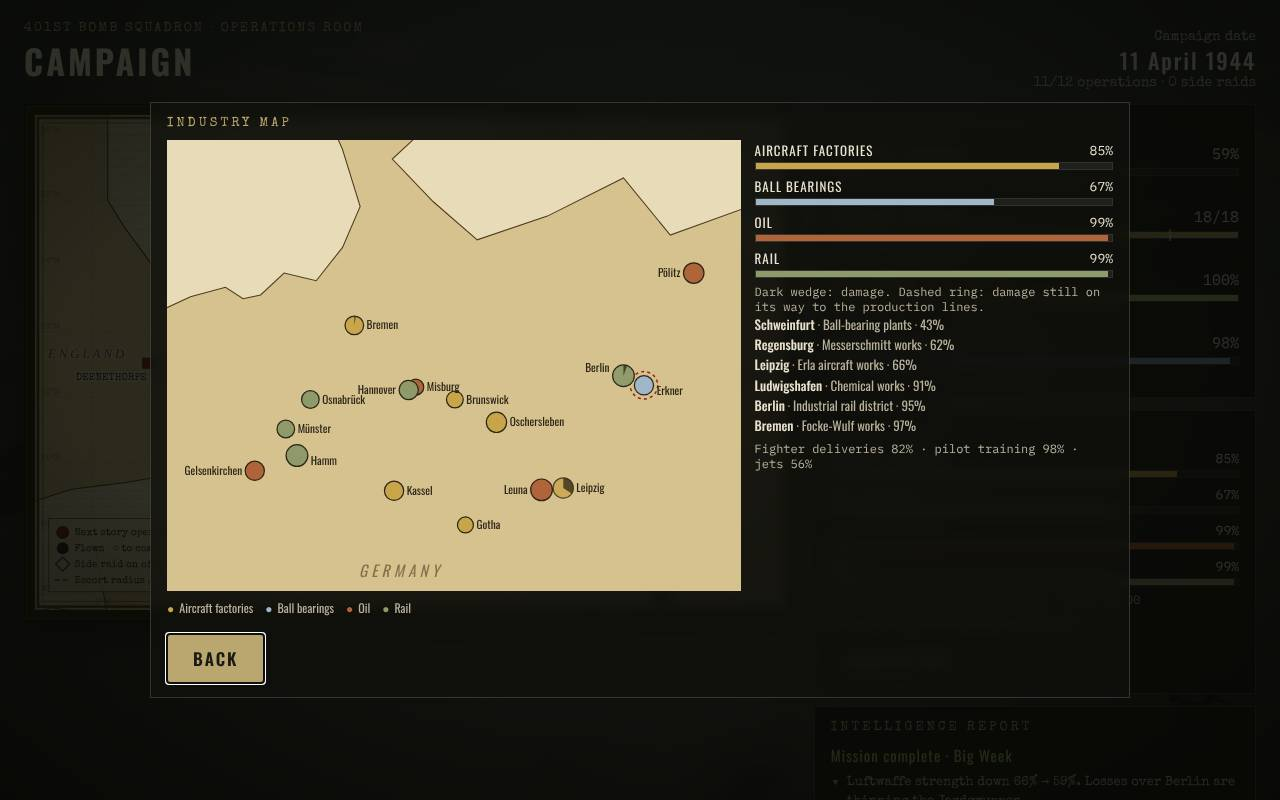
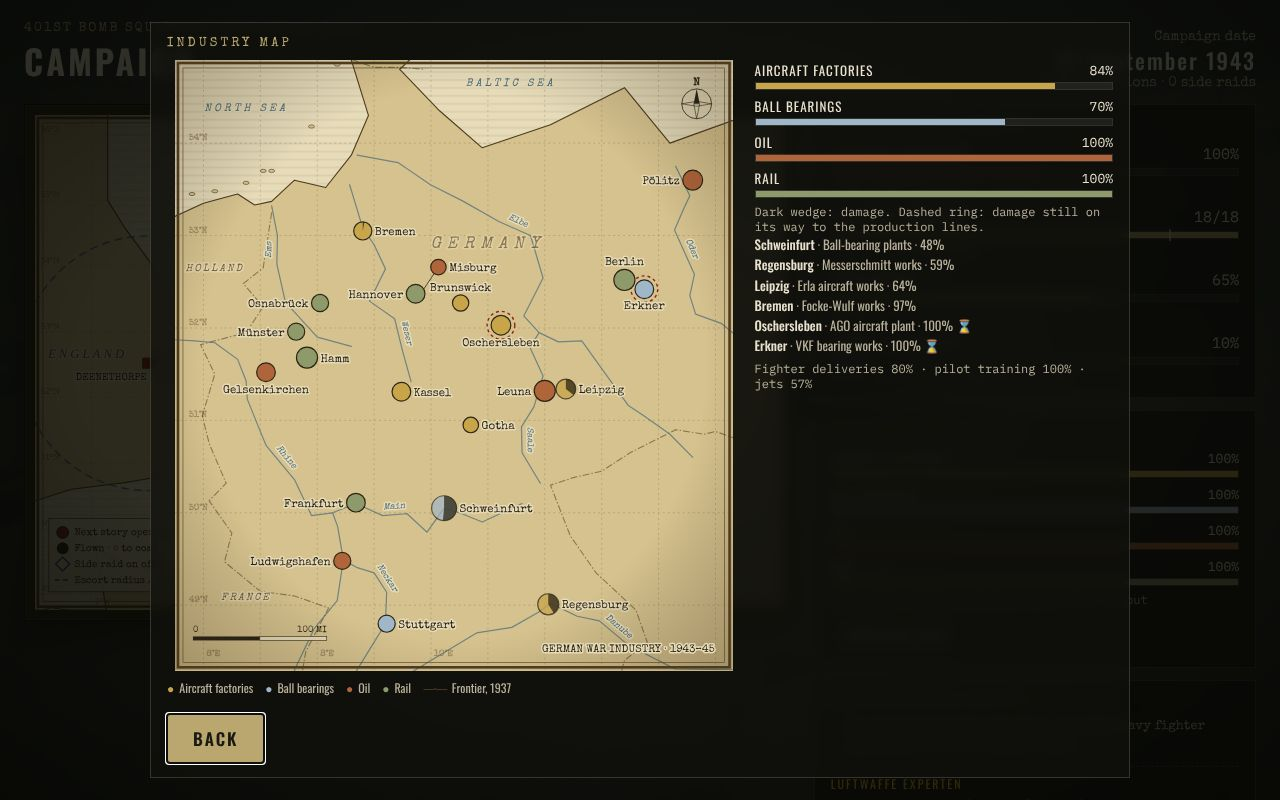
Phase 11 goal 10 review fixes: framed industry chart, label layout, forecast wording
- Industry map now spans 54.9-48.3N / 5.5-15.3E so every site is drawn
  (Schweinfurt, Regensburg, Stuttgart, Ludwigshafen, Frankfurt were cut off)
- Campaign-map chart style: graticule, rivers, 1937 frontier, seas, compass,
  scale bar, vignette and double frame; GERMANY label moved off the edge
- Per-site label sides, Misburg marker pulled clear of Hannover with a leader
- Forecast: one "single-engine deliveries down" line when Fw 190 and Bf 109
  both fall; single-type lines say the other type fills in
- Tests: sites inside the viewBox, markers apart, forecast wording, Arabic
- Re-captured industry-map shots (EN, AR, phone)

Claude-Session: https://claude.ai/code/session_01Q3BeMPozQkeuK1jLPaNDSU

diff --git a/src/ui/StrategicPanel.ts b/src/ui/StrategicPanel.ts
@@ -54,9 +54,10 @@ function ensureStyle() {
 .sw-map { position: fixed; inset: 0; z-index: 30; display: flex; align-items: center; justify-content: center; background: rgba(6,7,4,0.82); padding: 16px; }
 .sw-map .cm-card { width: min(980px, 100%); max-height: 100%; overflow-y: auto; }
 .sw-map .grid { display: grid; grid-template-columns: minmax(0, 1.6fr) minmax(240px, 1fr); gap: 14px; align-items: start; }
-.sw-map svg { display: block; width: 100%; height: auto; background: #e7dbb8; }
+.sw-map svg { display: block; width: min(100%, calc((100vh - 190px) * ${(W / H).toFixed(3)})); min-width: min(100%, 320px); height: auto; margin: 0 auto; background: #e7dbb8; }
 .sw-map .legend { display: flex; flex-wrap: wrap; gap: 6px 12px; font-size: 12px; color: var(--ink-dim); margin-top: 8px; }
 .sw-map .legend span::before { content: '●'; margin-inline-end: 5px; color: var(--c); }
+.sw-map .legend span.fr::before { content: '—·—'; letter-spacing: -1px; color: #4d3b1e; }
 .sw-map .sites { font-size: 13px; line-height: 1.55; color: var(--ink-dim); margin: 0; padding: 0; list-style: none; }
 .sw-map .sites li b { color: var(--ink); font-weight: 500; }
 @media (max-width: 760px) { .sw-map .grid { grid-template-columns: minmax(0, 1fr); } }
@@ -99,34 +100,119 @@ export function wireIndustryCard(root: HTMLElement, c: CampaignData) {
 
 // ---------------- industry map ----------------
 
-const W = 560, H = 440, LON0 = 5.6, LON1 = 15.4, LAT1 = 55.0;
+// The chart frames every site (Gelsenkirchen in the west to Pölitz in the east, the Baltic coast
+// down to Stuttgart and Regensburg) with the campaign map's projection, paper, graticule and frame.
+const LON0 = 5.5, LON1 = 15.3, LAT1 = 54.9, LAT0 = 48.3;
+const W = 560;
 const S = W / ((LON1 - LON0) * CHART.KX);
+const H = Math.round((LAT1 - LAT0) * S);
 const X = (lon: number) => (lon - LON0) * CHART.KX * S;
 const Y = (lat: number) => (LAT1 - lat) * S;
 const f1 = (n: number) => n.toFixed(1);
-// neighbouring sites: these labels go on the other side (or above / below) so none overlap
-const LABEL_LEFT = new Set(['hannover', 'leuna', 'berlin', 'gelsenkirchen', 'politz']);
-const LABEL_DY: Record<string, number> = { berlin: -4, erkner: 9, hamm: 9 };
+const PAPER = '#e7dbb8', LAND = '#d6c28e', COAST = '#4d3b1e', INK = '#2b2518', GRID = '#7a6240', RIVER = '#4f6f7c';
+export const INDUSTRY_CHART = { W, H } as const;
+/** Where a site's marker is drawn on the industry chart (viewBox units). */
+export function industryXY(s: { id: string; lat: number; lon: number }): [number, number] {
+  const o = MARK_SHIFT[s.id];
+  return [X(s.lon) + (o?.[0] ?? 0), Y(s.lat) + (o?.[1] ?? 0)];
+}
+// Misburg lies on Hannover's eastern edge: its marker is pulled clear with a leader line to the true spot.
+const MARK_SHIFT: Record<string, [number, number]> = { misburg: [16, -24] };
+// Label side per site (r = right, l = left, t = above, b = below), checked in EN and AR so none overlap.
+const LABEL_SIDE: Record<string, 'r' | 'l' | 't' | 'b'> = {
+  hannover: 'l', leuna: 'l', berlin: 't', gelsenkirchen: 'b', politz: 'l', munster: 'l', erkner: 'b',
+  frankfurt: 'l', ludwigshafen: 'l', misburg: 'r', oschersleben: 'b', brunswick: 't', osnabruck: 'l',
+};
+
+// Simplified rivers [lon, lat] (the Rhine, Main, Neckar, Danube, Elbe, Saale, Weser, Ems, Oder); each is named along segment `seg`.
+const RIVERS: { name: string; seg: number; pts: [number, number][] }[] = [
+  { name: 'Rhine', seg: 8, pts: [[7.8, 47.6], [7.6, 48.3], [7.95, 48.75], [8.35, 49.05], [8.46, 49.49], [8.36, 49.85], [8.27, 50.0], [7.9, 49.97], [7.6, 50.36], [7.1, 50.73], [6.96, 50.94], [6.77, 51.23], [6.75, 51.43], [6.6, 51.66], [6.2, 51.84], [5.85, 51.86], [5.3, 51.88], [4.5, 51.9]] },
+  { name: 'Main', seg: 5, pts: [[11.6, 50.1], [10.9, 49.9], [10.5, 50.0], [10.23, 50.05], [9.93, 49.79], [9.58, 49.99], [9.15, 49.97], [8.68, 50.1], [8.27, 50.0]] },
+  { name: 'Neckar', seg: 3, pts: [[8.6, 48.2], [9.0, 48.6], [9.2, 48.8], [9.22, 49.14], [9.0, 49.35], [8.69, 49.41], [8.46, 49.49]] },
+  { name: 'Danube', seg: 8, pts: [[8.5, 47.95], [9.2, 48.1], [9.99, 48.4], [10.8, 48.7], [11.42, 48.76], [11.88, 48.92], [12.1, 49.02], [12.57, 48.88], [12.96, 48.83], [13.46, 48.57], [14.29, 48.31], [15.5, 48.3]] },
+  { name: 'Elbe', seg: 10, pts: [[14.6, 50.6], [14.2, 50.85], [13.74, 51.05], [13.47, 51.16], [13.0, 51.56], [12.65, 51.86], [12.24, 51.85], [11.9, 51.95], [11.63, 52.13], [11.97, 52.54], [11.75, 53.0], [11.2, 53.15], [10.57, 53.37], [9.99, 53.55], [9.42, 53.79], [8.7, 53.87]] },
+  { name: 'Saale', seg: 1, pts: [[11.92, 50.32], [11.6, 50.65], [11.59, 50.93], [11.81, 51.15], [11.97, 51.48], [11.74, 51.79], [11.9, 51.95]] },
+  { name: 'Weser', seg: 1, pts: [[9.65, 51.42], [9.5, 51.75], [9.36, 52.1], [8.92, 52.29], [9.2, 52.64], [9.0, 52.9], [8.8, 53.08], [8.57, 53.55]] },
+  { name: 'Ems', seg: 3, pts: [[8.6, 51.8], [8.0, 51.9], [7.44, 52.28], [7.29, 52.69], [7.3, 53.0], [7.2, 53.32]] },
+  { name: 'Oder', seg: 5, pts: [[16.0, 51.3], [15.5, 51.85], [15.1, 52.05], [14.65, 52.15], [14.55, 52.35], [14.63, 52.58], [14.28, 53.06], [14.45, 53.3], [14.55, 53.43], [14.3, 53.75]] },
+];
+// Germany's 1937 frontier where it runs inside the chart: Denmark, Holland, Belgium, France, Bohemia.
+const FRONTIER: [number, number][][] = [
+  [[8.4, 54.95], [9.0, 54.82], [9.45, 54.82], [9.9, 54.8]],
+  [[7.2, 53.25], [7.05, 52.65], [6.7, 52.48], [7.05, 52.23], [6.75, 51.95], [5.95, 51.82], [6.2, 51.5], [5.98, 51.05], [6.1, 50.75], [6.4, 50.32], [6.1, 50.13], [6.5, 49.78], [6.37, 49.47], [7.0, 49.15], [7.6, 49.1], [8.2, 48.97], [7.8, 48.5], [7.55, 47.6]],
+  [[15.6, 50.75], [15.0, 50.88], [14.8, 50.85], [14.3, 50.9], [13.5, 50.65], [13.0, 50.45], [12.5, 50.38], [12.1, 50.3], [12.45, 49.75], [12.9, 49.35], [13.6, 48.95], [13.8, 48.6], [13.4, 48.4], [13.0, 47.5]],
+];
+const SEAS: [string, number, number][] = [['NORTH SEA', 6.75, 54.35], ['BALTIC SEA', 11.4, 54.62]];
+const LANDS: [string, number, number][] = [['GERMANY', 11.0, 52.86], ['FRANCE', 6.75, 49.06], ['HOLLAND', 6.2, 52.62]];
+
+const chartFont = () => `'Special Elite', Georgia, serif${isAr() ? ", 'Noto Naskh Arabic'" : ''}`;
+const halo = `stroke="${PAPER}" stroke-width="3" paint-order="stroke" stroke-linejoin="round"`;
 
 function mapSvg(d: StrategicData): string {
   const ring = (r: readonly (readonly [number, number])[]) => 'M' + r.map(([lon, lat]) => `${f1(X(lon))} ${f1(Y(lat))}`).join('L') + 'Z';
+  const poly = (r: readonly (readonly [number, number])[]) => 'M' + r.map(([lon, lat]) => `${f1(X(lon))} ${f1(Y(lat))}`).join('L');
+  const grid: string[] = [];
+  for (let la = Math.ceil(LAT0); la <= LAT1; la++) grid.push(`<line x1="0" x2="${W}" y1="${f1(Y(la))}" y2="${f1(Y(la))}"/><text data-lbl="grid" x="14" y="${f1(Y(la) - 3)}">${esc(tx('{n}°N', { n: la }))}</text>`);
+  for (let lo = Math.ceil(LON0); lo <= LON1; lo++) grid.push(`<line x1="${f1(X(lo))}" x2="${f1(X(lo))}" y1="0" y2="${H}"/>${lo % 2 || X(lo) > W - 230 ? '' : `<text data-lbl="grid" x="${f1(X(lo) + 3)}" y="${H - 14}">${esc(tx('{n}°E', { n: lo }))}</text>`}`);
+  const rivers = RIVERS.map((r) => `<path d="${poly(r.pts)}"/>`).join('');
+  const riverNames = RIVERS.map((r) => {
+    const [ax, ay] = [X(r.pts[r.seg][0]), Y(r.pts[r.seg][1])], [bx, by] = [X(r.pts[r.seg + 1][0]), Y(r.pts[r.seg + 1][1])];
+    let a = Math.atan2(by - ay, bx - ax);
+    if (a > Math.PI / 2) a -= Math.PI; else if (a <= -Math.PI / 2) a += Math.PI;   // keep the lettering upright
+    const x = (ax + bx) / 2 + Math.sin(a) * 6, y = (ay + by) / 2 - Math.cos(a) * 6;   // just above the stream
+    return `<text data-lbl="river" transform="translate(${f1(x)} ${f1(y)}) rotate(${(a * 180 / Math.PI).toFixed(0)})" text-anchor="middle">${esc(tx(r.name))}</text>`;
+  }).join('');
+  const names = [...SEAS.map(([n, lon, lat]) => `<text data-lbl="sea" x="${f1(X(lon))}" y="${f1(Y(lat))}" text-anchor="middle" font-size="11" fill="${RIVER}" letter-spacing="${isAr() ? 0 : 3}">${esc(tx(n))}</text>`),
+    ...LANDS.map(([n, lon, lat], i) => `<text data-lbl="land" x="${f1(X(lon))}" y="${f1(Y(lat))}" text-anchor="middle" font-size="${i ? 10.5 : 17}" fill="${COAST}" opacity="${i ? 0.7 : 0.55}" letter-spacing="${isAr() ? 0 : i ? 2 : 6}">${esc(tx(n))}</text>`)].join('');
+
   const marks = SITES.map((s) => {
     const st = d.sites[s.id];
     const dmg = st?.dmg ?? 0, pending = (st?.queue.length ?? 0) > 0;
     const r = 4 + Math.sqrt(s.output) * 1.2;
-    const x = X(s.lon), y = Y(s.lat);
+    const [x, y] = industryXY(s);
     const fill = SECTOR_COLOR[s.sector];
-    const left = LABEL_LEFT.has(s.id), dy = LABEL_DY[s.id] ?? 4;
-    return `<g><title>${esc(`${tx(s.name)}, ${tx(s.city)} · ${tx(SECTOR_LABEL[s.sector])} · ${pct(1 - dmg)}`)}</title>
-      <circle cx="${f1(x)}" cy="${f1(y)}" r="${f1(r)}" fill="${fill}" stroke="#2b2518" stroke-width="1.2" opacity="${(1 - dmg * 0.6).toFixed(2)}"/>
-      ${dmg > 0.02 ? `<path d="M${f1(x)} ${f1(y)}L${f1(x)} ${f1(y - r)}A${f1(r)} ${f1(r)} 0 ${dmg > 0.5 ? 1 : 0} 1 ${f1(x + r * Math.sin(dmg * 2 * Math.PI))} ${f1(y - r * Math.cos(dmg * 2 * Math.PI))}Z" fill="#2b2518" opacity="0.75"/>` : ''}
+    const side = LABEL_SIDE[s.id] ?? 'r';
+    const [lx, ly, anchor] = side === 'l' ? [x - r - 3, y + 4, 'end'] : side === 'r' ? [x + r + 3, y + 4, 'start'] : side === 't' ? [x, y - r - 4, 'middle'] : [x, y + r + 11, 'middle'];
+    const leader = MARK_SHIFT[s.id] ? `<line x1="${f1(X(s.lon))}" y1="${f1(Y(s.lat))}" x2="${f1(x)}" y2="${f1(y)}" stroke="${INK}" stroke-width=".8"/><circle cx="${f1(X(s.lon))}" cy="${f1(Y(s.lat))}" r="1.8" fill="${INK}"/>` : '';
+    return `<g data-site="${s.id}"><title>${esc(`${tx(s.name)}, ${tx(s.city)} · ${tx(SECTOR_LABEL[s.sector])} · ${pct(1 - dmg)}`)}</title>${leader}
+      <circle cx="${f1(x)}" cy="${f1(y)}" r="${f1(r)}" fill="${fill}" stroke="${INK}" stroke-width="1.2" opacity="${(1 - dmg * 0.6).toFixed(2)}"/>
+      ${dmg > 0.02 ? `<path d="M${f1(x)} ${f1(y)}L${f1(x)} ${f1(y - r)}A${f1(r)} ${f1(r)} 0 ${dmg > 0.5 ? 1 : 0} 1 ${f1(x + r * Math.sin(dmg * 2 * Math.PI))} ${f1(y - r * Math.cos(dmg * 2 * Math.PI))}Z" fill="${INK}" opacity="0.75"/>` : ''}
       ${pending ? `<circle cx="${f1(x)}" cy="${f1(y)}" r="${f1(r + 4)}" fill="none" stroke="#8e2418" stroke-width="1.4" stroke-dasharray="3 3"/>` : ''}
-      <text x="${f1(left ? x - r - 3 : x + r + 3)}" y="${f1(y + dy)}" text-anchor="${left ? 'end' : 'start'}" font-size="11" fill="#2b2518">${esc(tx(s.city))}</text></g>`;
+      <text x="${f1(lx)}" y="${f1(ly)}" text-anchor="${anchor}" font-size="11.5" fill="${INK}" ${halo}>${esc(tx(s.city))}</text></g>`;
   }).join('');
-  return `<svg viewBox="0 0 ${W} ${H}" style="direction:ltr" role="img" aria-label="${esc(tx('Industry map'))}">
-    <g fill="#d6c28e" stroke="#4d3b1e" stroke-width="1"><path d="${ring(CHART.MAINLAND)}"/></g>
-    <text x="${f1(X(9.6))}" y="${f1(Y(50.4))}" text-anchor="middle" font-style="italic" font-size="15" fill="#4d3b1e" opacity="0.6" letter-spacing="${isAr() ? 0 : 4}">${esc(tx('GERMANY'))}</text>
-    ${marks}</svg>`;
+
+  // scale bar in statute miles (1 degree of latitude is about 69 miles) and a compass
+  const bar = (100 / 69.05) * S;
+  const scale = `<g data-lbl="scale" transform="translate(18 ${H - 30})" font-size="9" fill="${INK}">
+      <rect x="0" y="-4" width="${f1(bar / 2)}" height="4" fill="${INK}"/>
+      <rect x="${f1(bar / 2)}" y="-4" width="${f1(bar / 2)}" height="4" fill="${PAPER}" stroke="${INK}" stroke-width=".6"/>
+      <text x="0" y="-8">0</text><text x="${f1(bar)}" y="-8" text-anchor="end">${esc(tx('{n} MI', { n: 100 }))}</text></g>`;
+  const compass = `<g transform="translate(${W - 36} 44)">
+      <circle r="15" fill="${PAPER}" fill-opacity=".7" stroke="${INK}" stroke-width=".8"/>
+      <path d="M0 -15L3 0L-3 0Z" fill="${INK}"/><path d="M0 15L3 0L-3 0Z" fill="${PAPER}" stroke="${INK}" stroke-width=".6"/>
+      <path d="M-15 0L0 -2.5L15 0L0 2.5Z" fill="none" stroke="${INK}" stroke-width=".6"/>
+      <text y="-19" text-anchor="middle" font-size="11" font-weight="700" fill="${INK}">${esc(tx('N (compass)').replace(' (compass)', ''))}</text></g>`;
+
+  return `<svg viewBox="0 0 ${W} ${H}" style="direction:ltr" direction="ltr" role="img" aria-label="${esc(tx('Industry map'))}" font-family="${chartFont()}">
+    <defs>
+      <pattern id="sw-sea" width="8" height="8" patternUnits="userSpaceOnUse"><path d="M0 4H8" stroke="${RIVER}" stroke-width=".5" opacity=".35"/></pattern>
+      <radialGradient id="sw-vig" cx="50%" cy="50%" r="75%"><stop offset="60%" stop-color="#000" stop-opacity="0"/><stop offset="100%" stop-color="#3a2a10" stop-opacity=".35"/></radialGradient>
+    </defs>
+    <rect width="${W}" height="${H}" fill="${PAPER}"/><rect width="${W}" height="${H}" fill="url(#sw-sea)"/>
+    <g fill="${LAND}" stroke="${COAST}" stroke-width="1.1" stroke-linejoin="round"><path d="${ring(CHART.MAINLAND)}"/>
+      ${CHART.ISLANDS.map(([lon, lat]) => `<ellipse cx="${f1(X(lon))}" cy="${f1(Y(lat))}" rx="3" ry="1.6" stroke-width=".6"/>`).join('')}</g>
+    <g stroke="${GRID}" stroke-width=".5" stroke-dasharray="2 3" opacity=".6" font-size="9" fill="${GRID}">${grid.join('')}</g>
+    <g fill="none" stroke="${COAST}" stroke-width="1.1" stroke-dasharray="7 2 1.5 2" opacity=".55">${FRONTIER.map((f) => `<path d="${poly(f)}"/>`).join('')}</g>
+    <g fill="none" stroke="${RIVER}" stroke-width="1.2" stroke-linejoin="round" stroke-linecap="round" opacity=".75">${rivers}</g>
+    <g font-size="9" font-style="italic" fill="${RIVER}" ${halo}>${riverNames}</g>
+    <g font-style="italic" ${halo}>${names}</g>
+    ${marks}
+    ${scale}${compass}
+    <rect width="${W}" height="${H}" fill="url(#sw-vig)" pointer-events="none"/>
+    <rect x="3" y="3" width="${W - 6}" height="${H - 6}" fill="none" stroke="${COAST}" stroke-width="2.6"/>
+    <rect x="8" y="8" width="${W - 16}" height="${H - 16}" fill="none" stroke="${COAST}" stroke-width=".6"/>
+    <text data-lbl="title" x="${W - 18}" y="${H - 18}" text-anchor="end" font-size="11" fill="${INK}" ${halo}>${esc(tx('GERMAN WAR INDUSTRY · 1943–45'))}</text>
+  </svg>`;
 }
 
 export function showIndustryMap(c: CampaignData) {
@@ -141,7 +227,7 @@ export function showIndustryMap(c: CampaignData) {
   const f = industryFactors(d);
   wrap.innerHTML = `<div class="cm-card" role="dialog" aria-modal="true"><h3>${tx('Industry map')}</h3>
     <div class="grid"><div>${mapSvg(d)}
-      <div class="legend">${SECTORS.map((s) => `<span style="--c:${SECTOR_COLOR[s]}">${esc(tx(SECTOR_LABEL[s]))}</span>`).join('')}</div></div>
+      <div class="legend">${SECTORS.map((s) => `<span style="--c:${SECTOR_COLOR[s]}">${esc(tx(SECTOR_LABEL[s]))}</span>`).join('')}<span class="fr">${esc(tx('Frontier, 1937'))}</span></div></div>
       <div>${sectorBars(d)}
         <p class="sw-note">${esc(tx('Dark wedge: damage. Dashed ring: damage still on its way to the production lines.'))}</p>
         <ul class="sites">${worst.map((s) => `<li><b>${esc(tx(s.city))}</b> · ${esc(tx(s.name))} · ${pct(1 - d.sites[s.id].dmg)}${d.sites[s.id].queue.length ? ' ⌛' : ''}</li>`).join('') || `<li>${esc(tx('No German works hit yet.'))}</li>`}</ul>
@@ -158,7 +244,7 @@ export function showIndustryMap(c: CampaignData) {
   wrap.addEventListener('click', (e) => { if (e.target === wrap) close(); });
   addEventListener('keydown', key, true);
   (document.getElementById('campaign') ?? document.body).appendChild(wrap);
-  wrap.querySelector<HTMLButtonElement>('[data-sw-back]')?.focus();
+  wrap.querySelector<HTMLButtonElement>('[data-sw-back]')?.focus({ preventScroll: true });
 }
 
 // ---------------- newsreel ----------------

diff --git a/tests/strategicWar.test.ts b/tests/strategicWar.test.ts
@@ -11,6 +11,7 @@ import {
   CAMPAIGN_KEY, applyModifiers, defaultCampaign, prepareCampaignMission, recordCampaignOutcome, saveCampaign, strategicModifiersFor, modifiersFor,
 } from '../src/game/CampaignState';
 import { hasPhrase, setLang } from '../src/i18n';
+import { INDUSTRY_CHART, industryXY } from '../src/ui/StrategicPanel';
 
 const byId = (id: string) => CAMPAIGN.find((m) => m.id === id)!;
 const win = { success: true, bombersLost: 1, bombersTotal: 12 };
@@ -132,6 +133,19 @@ describe('war industry model', () => {
     expect(quiet.headline.text).toMatch(/press on/);
   });
 
+  it('forecasts the fighter mix without contradicting the type swap', () => {
+    const texts = (r: { forecast: { text: string }[] }) => r.forecast.map((l) => l.text).join(' | ');
+    // only the Focke-Wulf lines are short: 109s fill in
+    const fw = recordStrike(defaultStrategic(3), { id: 'x1', target: 'Focke-Wulf works, Bremen', date: '1 May 1944' }, win, '19 June 1944').reel;
+    expect(texts(fw)).toMatch(/Fewer Fw 190s expected.*more Bf 109s fill in/);
+    expect(texts(fw)).not.toMatch(/Fewer Bf 109s/);
+    // both single-engine types cut: one plain line, never "fewer 190s" and "fewer 109s" side by side
+    const a = recordStrike(defaultStrategic(3), { id: 'x1', target: 'Focke-Wulf works, Bremen', date: '1 May 1944' }, win, '8 May 1944');
+    const both = recordStrike(a.data, { id: 'x2', target: 'Erla aircraft works, Leipzig', date: '8 May 1944' }, win, '19 June 1944').reel;
+    expect(texts(both)).toMatch(/Single-engine fighter deliveries down/);
+    expect(texts(both)).not.toMatch(/Fewer Fw 190s|Fewer Bf 109s/);
+  });
+
   it('saves, sanitizes and rebuilds from the operations log', () => {
     const d = recordStrike(defaultStrategic(11), op('m8'), win, byId('m3').date).data;
     const back = sanitizeStrategic(JSON.parse(JSON.stringify(d)))!;
@@ -190,7 +204,11 @@ describe('Arabic', () => {
     const texts = new Set<string>(['War industry', 'Industry map', 'Newsreel', 'Aircraft factories', 'Ball bearings', 'Oil', 'Rail',
       'Untouched: German industry is at full output', 'From industry: fighters x{a} · skill x{b}', 'No German works hit yet.',
       'Dark wedge: damage. Dashed ring: damage still on its way to the production lines.', 'Fighter deliveries {a} · pilot training {b} · jets {c}',
-      'The air war this week · {date}', 'The air war · {n} weeks from {date}']);
+      'The air war this week · {date}', 'The air war · {n} weeks from {date}', 'GERMAN WAR INDUSTRY · 1943–45', 'Frontier, 1937',
+      'BALTIC SEA', 'NORTH SEA', 'FRANCE', 'HOLLAND', 'GERMANY', 'Rhine', 'Main', 'Neckar', 'Danube', 'Elbe', 'Saale', 'Weser', 'Ems', 'Oder',
+      'Single-engine fighter deliveries down: fewer Fw 190s and Bf 109s alike',
+      'Fewer Fw 190s expected: the Focke-Wulf lines are short, more Bf 109s fill in',
+      'Fewer Bf 109s expected: Messerschmitt deliveries are down, more Fw 190s fill in']);
     for (const s of SITES) { texts.add(s.name); texts.add(s.city); }
     // every newsreel line the model can write
     let d = defaultStrategic(8);
@@ -205,5 +223,27 @@ describe('Arabic', () => {
       }
     }
     for (const t of texts) expect(hasPhrase(t), t).toBe(true);
+  });
+});
+
+describe('industry map', () => {
+  it('frames every site inside the chart, clear of the frame', () => {
+    const { W, H } = INDUSTRY_CHART;
+    for (const s of SITES) {
+      const [x, y] = industryXY(s);
+      expect(x, s.id).toBeGreaterThan(24);
+      expect(x, s.id).toBeLessThan(W - 24);
+      expect(y, s.id).toBeGreaterThan(24);
+      expect(y, s.id).toBeLessThan(H - 24);
+    }
+  });
+
+  it('keeps every marker apart (no two sites drawn on top of each other)', () => {
+    for (const a of SITES) for (const b of SITES) {
+      if (a.id >= b.id) continue;
+      const [ax, ay] = industryXY(a), [bx, by] = industryXY(b);
+      const ra = 4 + Math.sqrt(a.output) * 1.2, rb = 4 + Math.sqrt(b.output) * 1.2;
+      expect(Math.hypot(ax - bx, ay - by), `${a.id}/${b.id}`).toBeGreaterThan(ra + rb);
+    }
   });
 });

diff --git a/src/i18n/ar/strategic.ts b/src/i18n/ar/strategic.ts
@@ -50,6 +50,19 @@ const table: PhraseTable = { phrases: {
   "Berlin": "برلين",
   "Frankfurt": "فرانكفورت",
   "GERMANY": "ألمانيا",
+  // industry map: seas, rivers, frontier, title
+  "BALTIC SEA": "بحر البلطيق",
+  "Rhine": "الراين",
+  "Main": "الماين",
+  "Neckar": "النيكار",
+  "Danube": "الدانوب",
+  "Elbe": "الإلبه",
+  "Saale": "الزاله",
+  "Weser": "الفيزر",
+  "Ems": "الإمس",
+  "Oder": "الأودر",
+  "Frontier, 1937": "حدود 1937",
+  "GERMAN WAR INDUSTRY · 1943–45": "الصناعة الحربية الألمانية · 1943–45",
   // campaign map card and industry map
   "War industry": "الصناعة الحربية",
   "Industry map": "خريطة الصناعة",
@@ -75,8 +88,9 @@ const table: PhraseTable = { phrases: {
   "{works}, {city}: about {n}% of output lost, felt in {w} weeks": "{works}، {city}: فُقد نحو {n}% من الإنتاج، ويظهر الأثر خلال {w} أسابيع",
   "{works}, {city}: about {n}% of traffic stopped at once": "{works}، {city}: توقف نحو {n}% من الحركة فوراً",
   "Damage still working through the factories: shortages bite in about {w} weeks": "الضرر يسري في المصانع: يظهر النقص خلال نحو {w} أسابيع",
-  "Fewer Fw 190s expected: the Focke-Wulf lines are short": "نتوقع عدداً أقل من Fw 190: خطوط فوكه-وولف تعاني نقصاً",
-  "Fewer Bf 109s expected: Messerschmitt deliveries are down": "نتوقع عدداً أقل من Bf 109: تسليمات ميسرشميت تراجعت",
+  "Single-engine fighter deliveries down: fewer Fw 190s and Bf 109s alike": "تراجعت تسليمات المقاتلات أحادية المحرك: عدد أقل من Fw 190 وBf 109 معاً",
+  "Fewer Fw 190s expected: the Focke-Wulf lines are short, more Bf 109s fill in": "نتوقع عدداً أقل من Fw 190: خطوط فوكه-وولف تعاني نقصاً، وتسد Bf 109 الفراغ",
+  "Fewer Bf 109s expected: Messerschmitt deliveries are down, more Fw 190s fill in": "نتوقع عدداً أقل من Bf 109: تسليمات ميسرشميت تراجعت، وتسد Fw 190 الفراغ",
   "Fewer twin-engine destroyers: Bf 110 and Ju 88 output is down": "مدمرات ثنائية المحرك أقل: تراجع إنتاج Bf 110 وJu 88",
   "The jet programme is set back about {w} weeks": "تأخر برنامج الطائرات النفاثة نحو {w} أسابيع",
   "Fuel is short: green pilots in the German cockpits": "الوقود شحيح: طيارون قليلو الخبرة في قمرات القيادة الألمانية",

diff --git a/src/game/StrategicWar.ts b/src/game/StrategicWar.ts
@@ -325,8 +325,12 @@ export function recordStrike(d0: StrategicData, op: { id: string; target: string
     const soonest = Math.min(...pending.flatMap((s) => d.sites[s.id].queue.map((q) => q[0])));
     forecast.push({ text: 'Damage still working through the factories: shortages bite in about {w} weeks', vars: { w: Math.max(1, soonest - d.week + 1) } });
   }
-  if (f1.fw190 < f0.fw190 - 0.03) forecast.push({ text: 'Fewer Fw 190s expected: the Focke-Wulf lines are short', tone: 'good' });
-  if (f1.bf109 < f0.bf109 - 0.03) forecast.push({ text: 'Fewer Bf 109s expected: Messerschmitt deliveries are down', tone: 'good' });
+  // One short type is replaced by the other (industryType), so "fewer 190s" means "more 109s":
+  // when both fall, only the total of single-engine fighters drops and the line says just that.
+  const fwDown = f1.fw190 < f0.fw190 - 0.03, bfDown = f1.bf109 < f0.bf109 - 0.03;
+  if (fwDown && bfDown) forecast.push({ text: 'Single-engine fighter deliveries down: fewer Fw 190s and Bf 109s alike', tone: 'good' });
+  else if (fwDown) forecast.push({ text: 'Fewer Fw 190s expected: the Focke-Wulf lines are short, more Bf 109s fill in', tone: 'good' });
+  else if (bfDown) forecast.push({ text: 'Fewer Bf 109s expected: Messerschmitt deliveries are down, more Fw 190s fill in', tone: 'good' });
   if (f1.heavy < f0.heavy - 0.03) forecast.push({ text: 'Fewer twin-engine destroyers: Bf 110 and Ju 88 output is down', tone: 'good' });
   if (f1.jets < f0.jets - 0.02) forecast.push({ text: 'The jet programme is set back about {w} weeks', vars: { w: Math.round(d.jetDelay) }, tone: 'good' });
   if (f1.skill < f0.skill - 0.003) forecast.push({ text: 'Fuel is short: green pilots in the German cockpits', tone: 'good' });

diff --git a/docs/phase11/reports/10.md b/docs/phase11/reports/10.md
@@ -28,11 +28,11 @@ A war-industry layer now sits under the existing campaign (`CampaignState.ts`) a
   - a kicker such as "The air war · 4 weeks from 8 March 1944" and a headline such as "Ball-bearing works ablaze at Erkner";
   - one line per site hit, giving the output lost and when it will be felt;
   - four sector bars with their change;
-  - a forecast, for example "Fewer Bf 109s expected", "The jet programme is set back about 6 weeks" or "Repairs are ahead of the bombing".
+  - a forecast, for example "Fewer Bf 109s expected: Messerschmitt deliveries are down, more Fw 190s fill in", "Single-engine fighter deliveries down" (when both types are cut), "The jet programme is set back about 6 weeks" or "Repairs are ahead of the bombing".
 
   Replays show no newsreel and change nothing.
 - **Campaign map.** A small "War industry" card (four bars, one note, the latest headline, one button) and an **Industry map** overlay.
-  - The overlay is a chart of the sites. A dark wedge shows damage and a dashed ring shows damage still on its way to the lines. It also lists the worst-hit works and shows deliveries, training and jets.
+  - The overlay is a chart of the sites, drawn in the campaign map's style (see "Review fixes" below). A dark wedge shows damage and a dashed ring shows damage still on its way to the lines. It also lists the worst-hit works and shows deliveries, training and jets.
   - It has one primary button (Back), and Esc/Backspace close only the overlay. This follows the Phase 8 rule of one simple card and one button.
   - The "Fighters ×" chips on the map and the briefing line now include the industry factor.
 - **Deterministic and saved.**
@@ -101,3 +101,26 @@ Headless Chromium with software rendering, in English and Arabic:
 - **Capture rig / quality gate against LIVE main:** not run. This is a UI and gameplay goal with no 3D scene changes, and there is no GPU here. The DOM screenshots above are the evidence.
 - **The Tour (goal 07)** is not on this branch. When it lands, it can call `recordStrike` / `industryFactors` directly, or go through `recordCampaignOutcome` as before.
 - The newsreel is a DOM card, not a filmed sequence. No new assets were needed.
+
+## Review fixes (after the first rejection)
+- **Framing.** The chart now runs 54.9°N–48.3°N and 5.5°E–15.3°E (viewBox 560×613, the campaign map's projection). All 21 sites are drawn, including Schweinfurt, Regensburg, Stuttgart, Ludwigshafen and Frankfurt. New tests in `tests/strategicWar.test.ts` ("industry map") check that every site's x/y is inside the viewBox with a 24-unit margin, and that no two markers overlap.
+- **Chart style.** It now uses the campaign map's look:
+  - paper, sea hatching, coast and Frisian islands, vignette and double frame;
+  - a dashed 1° graticule with °N/°E labels;
+  - nine simplified rivers (Rhine, Main, Neckar, Danube, Elbe, Saale, Weser, Ems, Oder), each named along its own segment;
+  - the 1937 frontier as a dash-dot line, also in the legend;
+  - North Sea, Baltic Sea, Holland, France and Germany names;
+  - a compass, a 100-mile scale bar and the title "German war industry · 1943–45".
+- **"GERMANY"** now sits over the Lüneburg Heath, away from every edge.
+- **Labels.**
+  - Each site has a label side (left, right, above or below), and labels have a paper halo.
+  - Misburg's marker is pulled clear of Hannover, with a leader line to its true spot.
+  - Berlin's label is above and Erkner's below. Leuna's is on the left and Leipzig's on the right.
+  - The bottom °E labels stop short of the title.
+  - The dialog no longer scrolls on phones when the Back button takes focus.
+  - A headless check measured every label's box in EN and AR, at 1280×800 and 390×844. It found no label–label, label–marker or label–name overlaps, and nothing within 9 units of the frame. (The script is a scratch Playwright script and is not committed.)
+- **Forecast.**
+  - The forecast no longer says "Fewer Fw 190s" and "Fewer Bf 109s" together. When both fall, it says "Single-engine fighter deliveries down: fewer Fw 190s and Bf 109s alike".
+  - When only one type falls, the line says the other type fills in, which matches the `ENEMY_MIX` swap.
+  - A test covers both cases. The Arabic lines were added and are checked by the coverage test.
+- **Shots re-captured:** `industry-map-en.jpg`, `industry-map-ar.jpg`, `industry-map-phone-en.jpg` and `industry-map-phone-ar.jpg`.
